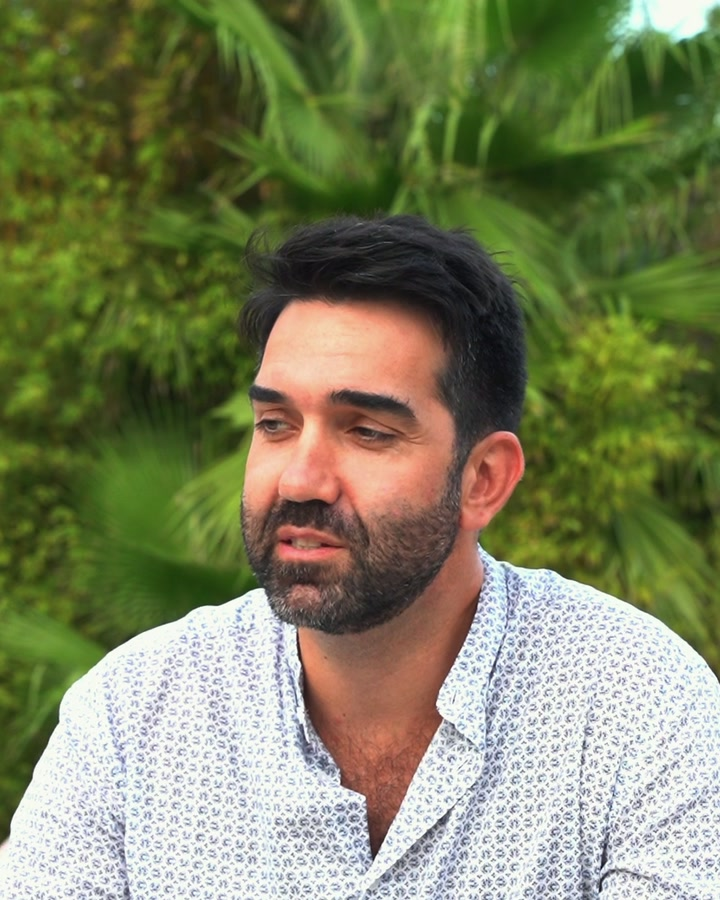
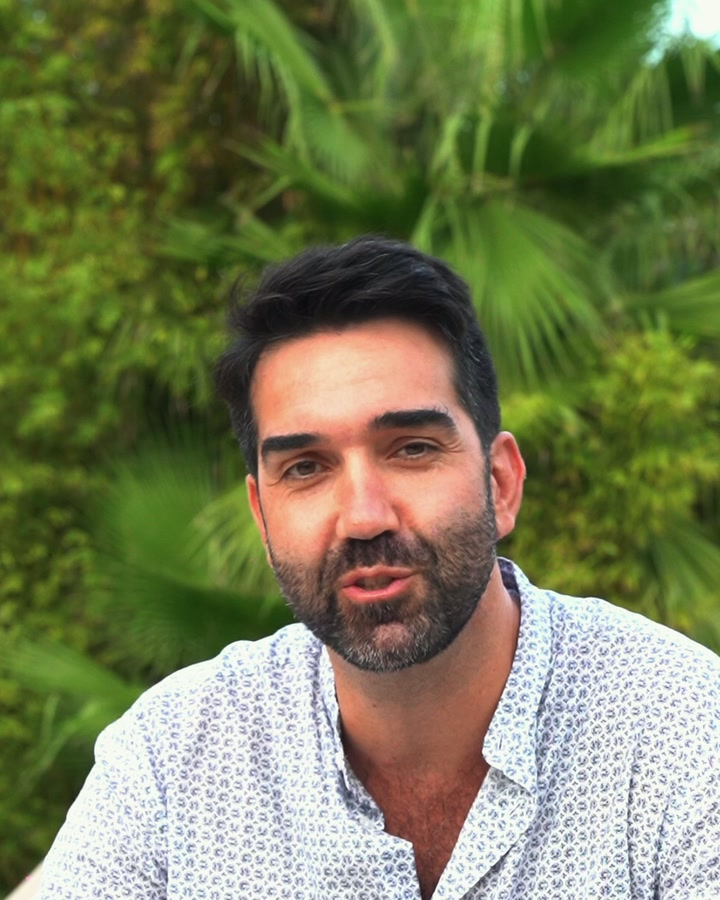
Voices: autoplay carousel, better stills for Manuele and Dunja

diff --git a/components/sections/home/VoicesCarousel.tsx b/components/sections/home/VoicesCarousel.tsx
@@ -5,6 +5,11 @@ import { useCallback, useEffect, useRef, useState } from 'react'
 // A native scroll-snap track with previous/next buttons. Every card is in the
 // server-rendered HTML (good for search and for no-JS visitors); the buttons
 // only scroll the track. Swipe works on phones, Shift+wheel/trackpad on desktop.
+// It also moves on its own, one card every few seconds, looping back to the
+// start. Autoplay pauses while the pointer or keyboard focus is on it, right
+// after a touch or a click, while it is off screen or the tab is hidden, and
+// never runs with reduced motion.
+const AUTO_MS = 4500
 export default function VoicesCarousel({ children, label, header }: { children: React.ReactNode; label: string; header?: React.ReactNode }) {
   const track = useRef<HTMLUListElement>(null)
   const [atStart, setAtStart] = useState(true)
@@ -28,19 +33,52 @@ export default function VoicesCarousel({ children, label, header }: { children: 
     }
   }, [update])
 
-  const go = (dir: 1 | -1) => {
+  const go = useCallback((dir: 1 | -1) => {
     const el = track.current
     if (!el) return
     const card = el.querySelector('li')
     const step = card ? card.getBoundingClientRect().width + 16 : el.clientWidth * 0.8
     el.scrollBy({ left: dir * step, behavior: 'smooth' })
-  }
+  }, [])
+
+  // Autoplay.
+  const paused = useRef(false)
+  const visible = useRef(false)
+  const lastTouch = useRef(0)
+  useEffect(() => {
+    const el = track.current
+    if (!el || window.matchMedia('(prefers-reduced-motion: reduce)').matches) return
+    const io = new IntersectionObserver(([e]) => (visible.current = e.isIntersecting), { threshold: 0.3 })
+    io.observe(el)
+    const id = window.setInterval(() => {
+      if (paused.current || !visible.current || document.hidden) return
+      if (Date.now() - lastTouch.current < AUTO_MS * 2) return
+      if (el.scrollLeft + el.clientWidth >= el.scrollWidth - 4) el.scrollTo({ left: 0, behavior: 'smooth' })
+      else go(1)
+    }, AUTO_MS)
+    return () => {
+      io.disconnect()
+      window.clearInterval(id)
+    }
+  }, [go])
+  const hold = (v: boolean) => () => (paused.current = v)
+  const touched = () => (lastTouch.current = Date.now())
 
   const btn =
     'flex h-11 w-11 items-center justify-center border transition-colors hover:border-[var(--copper-deep)] hover:text-[var(--copper-deep)] disabled:pointer-events-none disabled:opacity-30'
 
   return (
-    <div role="region" aria-roledescription="carousel" aria-label={label}>
+    <div
+      role="region"
+      aria-roledescription="carousel"
+      aria-label={label}
+      onPointerEnter={(e) => e.pointerType === 'mouse' && (paused.current = true)}
+      onPointerLeave={(e) => e.pointerType === 'mouse' && (paused.current = false)}
+      onFocus={hold(true)}
+      onBlur={hold(false)}
+      onPointerDown={touched}
+      onTouchStart={touched}
+    >
       <div className="flex items-end justify-between gap-6">
         <div>{header}</div>
         <div className="flex shrink-0 gap-2">
